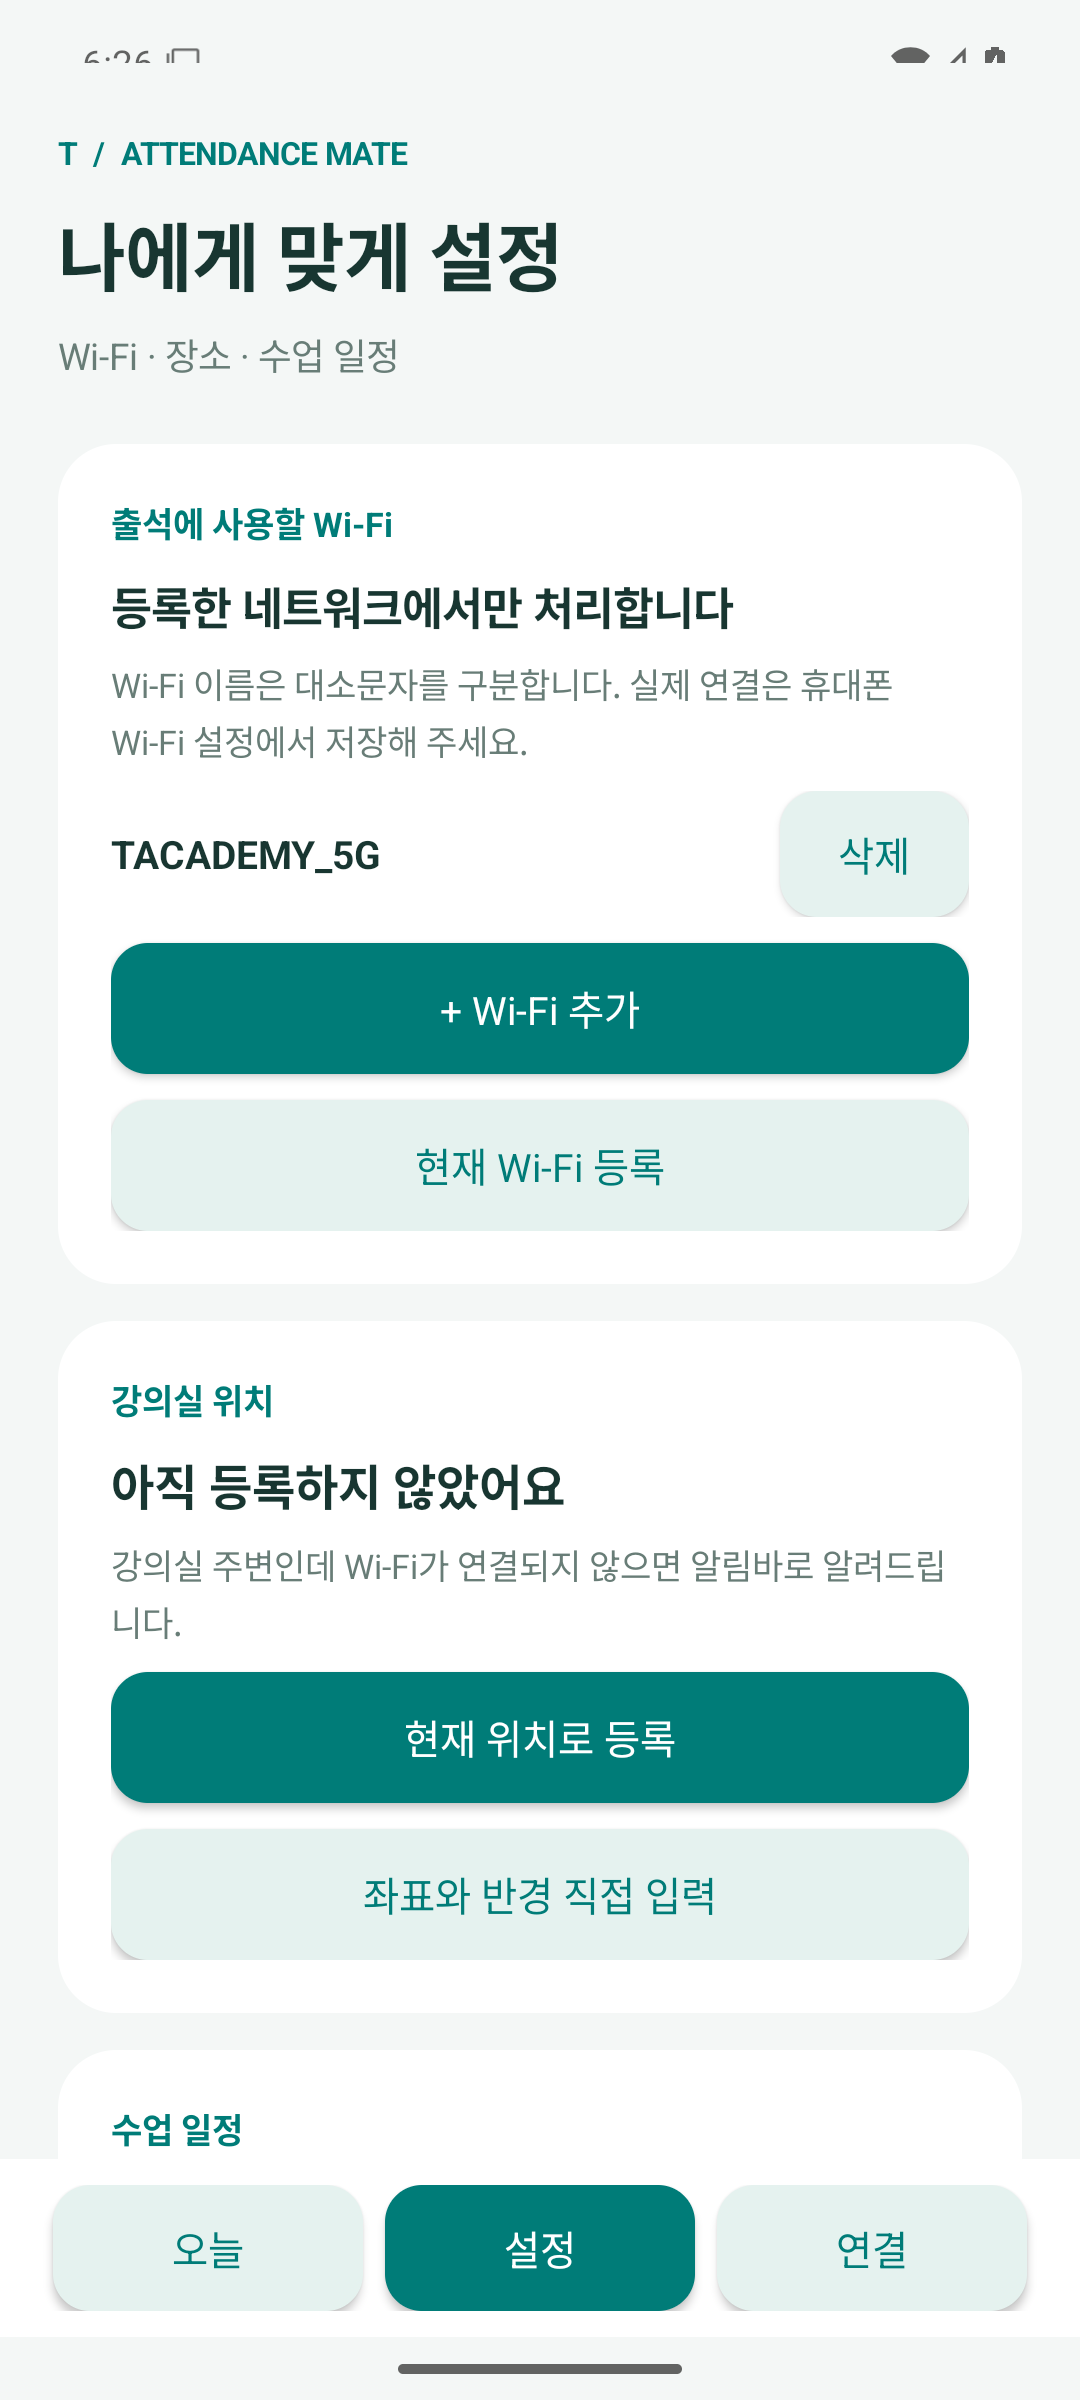
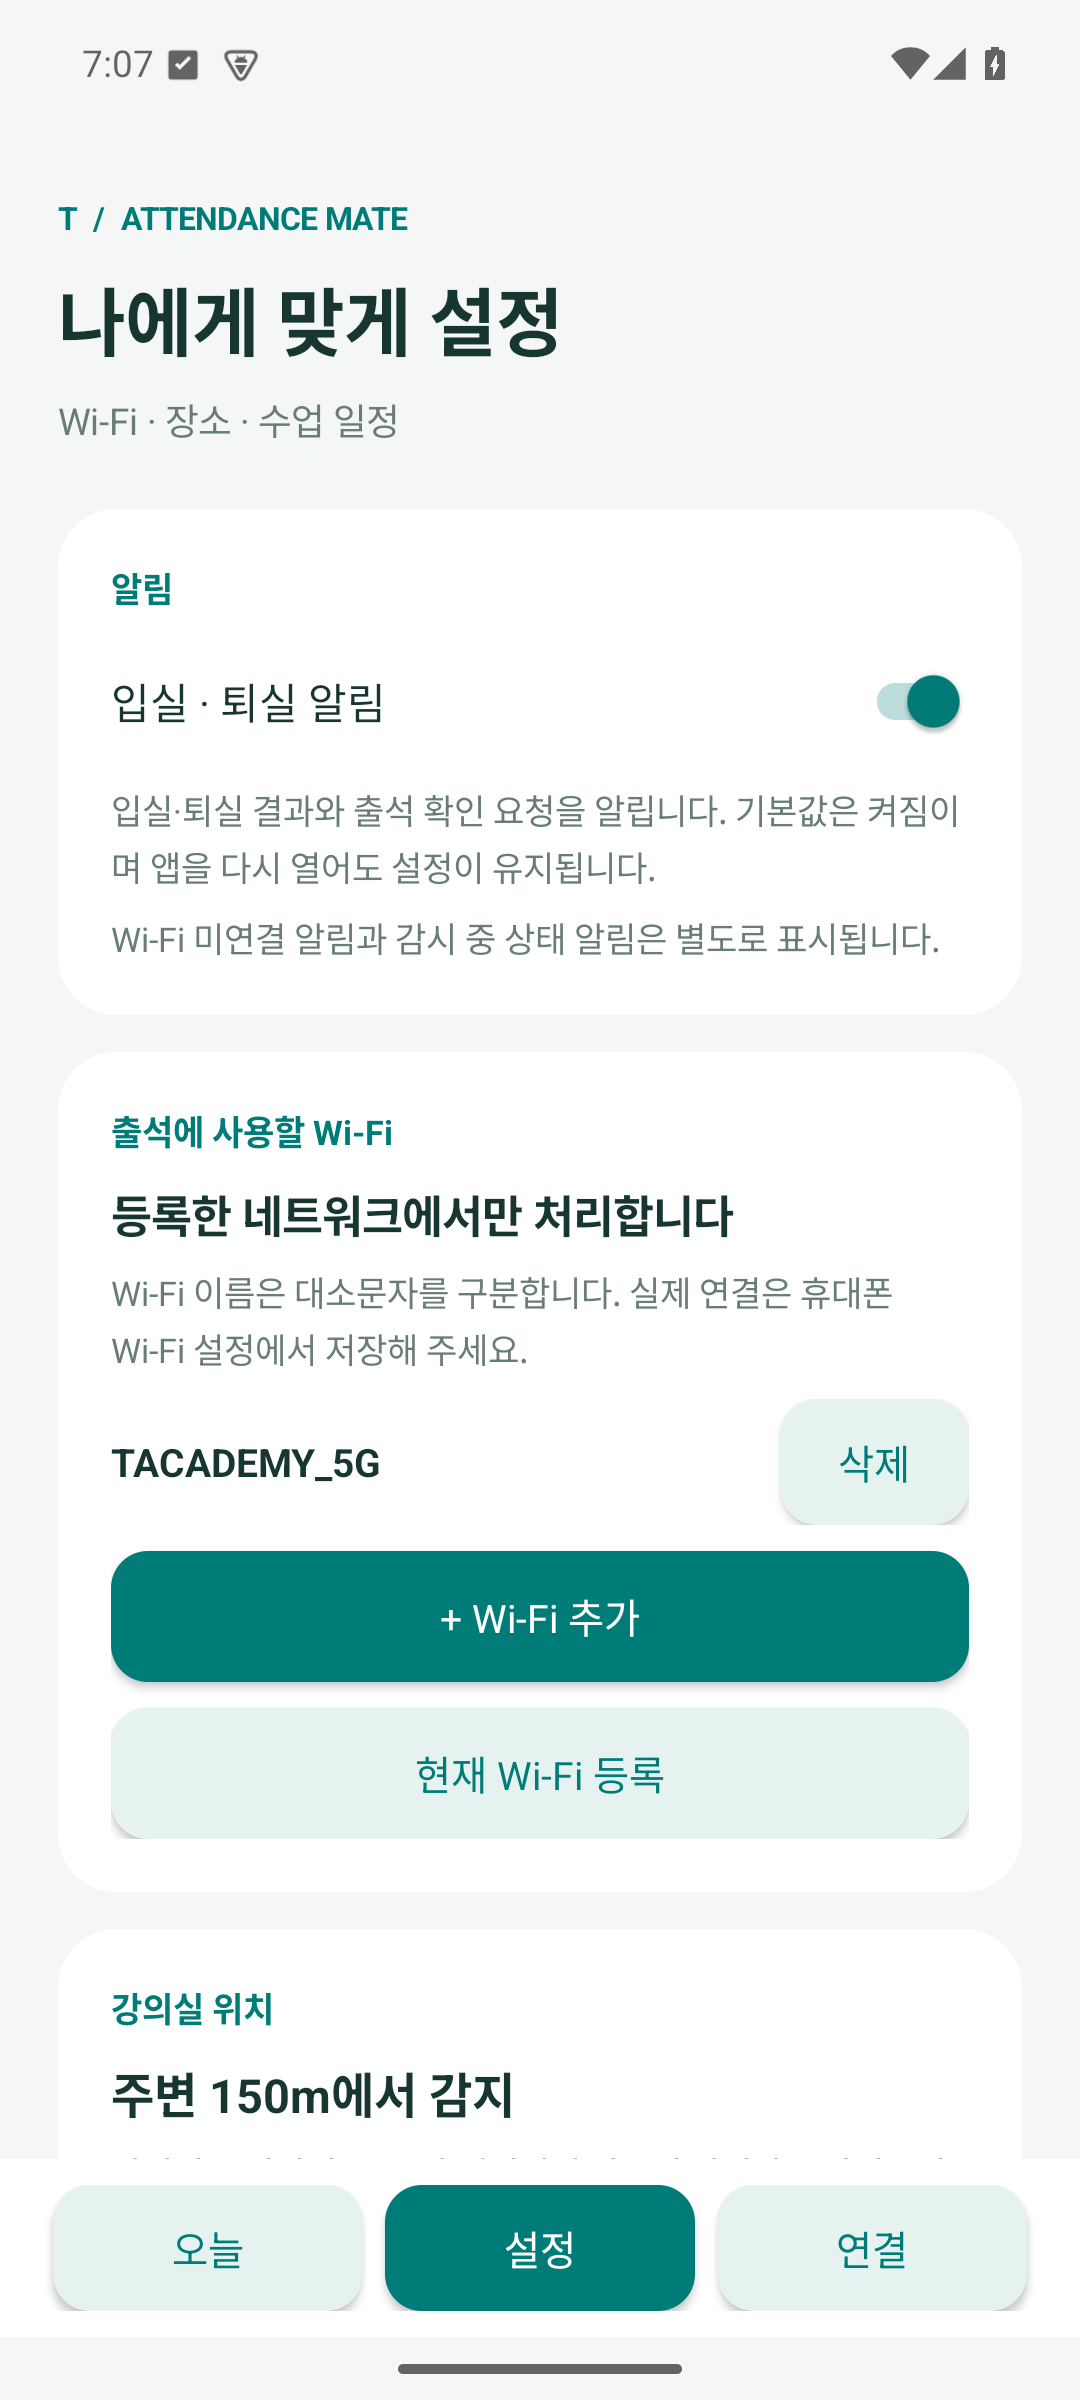
feat: add persistent attendance notification toggle

Changed region(s): [[0.0611, 0.0, 0.9167, 0.9062], [0.2139, 0.0, 0.2444, 0.0312]]

diff --git a/app/src/main/java/net/tacademy/attendance/MainActivity.java b/app/src/main/java/net/tacademy/attendance/MainActivity.java
@@ -194,6 +194,19 @@ public final class MainActivity extends Activity {
     }
 
     private void settings() {
+        LinearLayout notifications = card("알림");
+        Switch resultAlerts = new Switch(this);
+        resultAlerts.setText("입실 · 퇴실 알림"); resultAlerts.setTextSize(16); resultAlerts.setTextColor(INK);
+        resultAlerts.setMinHeight(dp(48));
+        resultAlerts.setChecked(prefs.resultNotificationsEnabled()); notifications.addView(resultAlerts);
+        note(notifications, "입실·퇴실 결과와 출석 확인 요청을 알립니다. 기본값은 켜짐이며 앱을 다시 열어도 설정이 유지됩니다.");
+        note(notifications, "Wi-Fi 미연결 알림과 감시 중 상태 알림은 별도로 표시됩니다.");
+        if (!getSystemService(NotificationManager.class).areNotificationsEnabled())
+            note(notifications, "휴대폰에서 앱 알림이 차단되어 있습니다. 연결 탭에서 알림 권한을 허용해 주세요.");
+        resultAlerts.setOnCheckedChangeListener((v, checked) -> {
+            Notices.setResultNotificationsEnabled(this, checked);
+            prefs.log(checked ? "입실·퇴실 알림 켜짐" : "입실·퇴실 알림 꺼짐");
+        });
         LinearLayout wifi = card("출석에 사용할 Wi-Fi");
         wifi.addView(text("등록한 네트워크에서만 처리합니다", 17, INK, true));
         note(wifi, "Wi-Fi 이름은 대소문자를 구분합니다. 실제 연결은 휴대폰 Wi-Fi 설정에서 저장해 주세요.");
@@ -385,7 +398,7 @@ public final class MainActivity extends Activity {
                     prefs.raw.edit().remove("pending").apply(); prefs.log("사용자가 요청 보류 해제"); render(2);
                 }).show());
         LinearLayout info = card("ABOUT");
-        info.addView(text("출석 메이트 0.1.0 · 초기 테스트 버전", 14, INK, true));
+        info.addView(text("출석 메이트 0.1.1 · 초기 테스트 버전", 14, INK, true));
         note(info, "인증과 위치는 이 기기에 저장합니다. 별도의 분석 서버로 전송하지 않습니다. 실제 계정과 지정 Wi-Fi에서의 동작 검증은 아직 필요합니다.");
     }
     private void permissions() {

diff --git a/app/src/main/java/net/tacademy/attendance/Notices.java b/app/src/main/java/net/tacademy/attendance/Notices.java
@@ -34,7 +34,12 @@ public final class Notices {
             .setContentTitle("17:50 퇴실 확인").setContentText("연결과 사이트 기록을 확인하고 있습니다")
             .setContentIntent(open(context)).setOngoing(true).build();
     }
-    public static void alert(Context context, String title, String detail) {
+    public static synchronized void setResultNotificationsEnabled(Context context, boolean enabled) {
+        new Prefs(context).resultNotificationsEnabled(enabled);
+        if (!enabled) context.getSystemService(NotificationManager.class).cancel(RESULT);
+    }
+    public static synchronized void alert(Context context, String title, String detail) {
+        if (!new Prefs(context).resultNotificationsEnabled()) return;
         channels(context);
         publish(context, RESULT, new Notification.Builder(context, "result").setSmallIcon(R.drawable.ic_notification)
             .setContentTitle(title).setContentText(detail).setStyle(new Notification.BigTextStyle().bigText(detail))

diff --git a/app/src/main/java/net/tacademy/attendance/Prefs.java b/app/src/main/java/net/tacademy/attendance/Prefs.java
@@ -18,6 +18,8 @@ public final class Prefs {
     public boolean enabled() { return raw.getBoolean("enabled", false); }
     public void enabled(boolean value) { raw.edit().putBoolean("enabled", value).apply(); }
     public boolean auto() { return raw.getBoolean("auto", false); }
+    public boolean resultNotificationsEnabled() { return raw.getBoolean("result_notifications", true); }
+    public void resultNotificationsEnabled(boolean value) { raw.edit().putBoolean("result_notifications", value).apply(); }
     public String start() { return raw.getString("start", "08:00"); }
     public String end() { return raw.getString("end", "17:45"); }
     public Set<Integer> days() {

diff --git a/README.md b/README.md
@@ -2,13 +2,13 @@
 
 강의실 Wi-Fi와 위치를 확인하고 출석 사이트의 입실·퇴실을 자동 처리하는 개인용 Android 앱입니다.
 
-**v0.1.0은 초기 테스트 버전입니다. 실제 본인 계정과 강의실 네트워크에서 자동 입퇴실 검증이 필요합니다.**
+**v0.1.1은 초기 테스트 버전입니다. 실제 본인 계정과 강의실 네트워크에서 자동 입퇴실 검증이 필요합니다.**
 
-[APK 다운로드 · v0.1.0](https://github.com/dnjsml0206-blip/classroom-attendance-android/releases/tag/v0.1.0)
+[APK 다운로드 · v0.1.1](https://github.com/dnjsml0206-blip/classroom-attendance-android/releases/tag/v0.1.1)
 
 ## 설치와 시작
 
-1. 릴리스의 `classroom-attendance-0.1.0-debug.apk`를 Android 휴대폰에 내려받아 설치합니다. Android 8.0 이상을 지원합니다.
+1. 릴리스의 `classroom-attendance-0.1.1-debug.apk`를 Android 휴대폰에 내려받아 설치합니다. Android 8.0 이상을 지원합니다.
 2. **설정 → Wi-Fi**에서 기본 등록된 `TACADEMY_5G`를 확인합니다. 다른 Wi-Fi는 이름을 입력해 추가하거나 삭제할 수 있습니다.
 3. 휴대폰 Wi-Fi 설정에도 해당 네트워크를 저장하고 자동 연결을 켭니다. 앱의 목록은 출석에 사용할 네트워크 목록이며 Wi-Fi 비밀번호를 저장하지 않습니다.
 4. **설정 → 강의실 위치**에서 현재 위치를 등록하거나 좌표와 반경을 입력합니다.
@@ -16,6 +16,8 @@
 6. **연결 → 사이트 인증**에서 본인에게 발급된 인증 링크를 앱 안에서 열고 **인증 저장**을 누릅니다. Chrome 인증은 앱과 자동 공유되지 않습니다.
 7. 위치·알림·정확한 알람 권한을 허용하고 **오늘 → 감시 시작**을 누릅니다.
 8. 초기에는 조회 모드입니다. 지정 Wi-Fi에서 본인의 기록을 확인한 뒤 **설정 → 입실·퇴실 자동 처리**를 켭니다.
+
+**설정 → 알림 → 입실·퇴실 알림**에서 결과와 출석 확인 요청 알림을 켜거나 끌 수 있습니다. 자동 출석은 알림 설정과 별도로 동작합니다. Wi-Fi 미연결 및 감시 상태 알림은 계속 표시됩니다.
 
 개인 인증 링크나 쿠키를 GitHub 이슈에 올리지 마세요. 앱은 인증 정보를 Android Keystore 키로 암호화해 기기에 저장합니다.
 
@@ -28,6 +30,7 @@
 - 사용자가 시작하는 위치·Wi-Fi 감시 서비스와 감시 일시 중지
 - 월–일 수업 요일, 입실 시간대, 휴강일 설정
 - 한국 시간 **17:50** 퇴실 예약 및 알람 권한 상태 표시
+- 설정 → 알림 → 입실·퇴실 알림 켜기/끄기; 기본 켜짐, 재실행 후 유지, 끄면 표시 중인 결과 알림도 제거
 - 출석 사이트의 공개 JavaScript에서 확인한 요청을 사용하는 기록 조회와 자동 입퇴실
 - 지정 Wi-Fi 네트워크에 연결한 HTTP 요청 및 사이트의 IP 허용 여부 재확인
 - 날짜·과정·입실/퇴실별 중복 방지, 결과 불명확 시 조회 우선 및 재전송 보류
@@ -65,7 +68,7 @@ GitHub Actions에서도 같은 검사를 수행하고 테스트 APK를 아티팩
 - 일정·와이파이 이름·사이트 응답·인증 URL 범위에 대한 JVM 테스트 12개 통과
 - Android Lint 오류 0개; 고정된 Gradle 버전에 대한 업데이트 안내 1개
 - 실제 출석 계정과 강의실 Wi-Fi 검증은 미실행
-- 설치 및 화면 검증 기록: [v0.1.0 검증](docs/verification-v0.1.0.md)
+- 알림 설정 및 업데이트 설치 검증: [v0.1.1 검증](docs/verification-v0.1.1.md)
 
 ## 문서
 

diff --git a/docs/verification-v0.1.1.md b/docs/verification-v0.1.1.md
@@ -1,0 +1,17 @@
+# v0.1.1 검증 기록
+
+- 실행: `gradlew.bat assembleDebug testDebugUnitTest lintDebug --no-daemon`
+- JVM 테스트 12개 통과, Android Lint 오류 0개 / Gradle 업데이트 안내 1개
+- v0.1.0 APK와 서명 인증서 일치, Android 15 / API 35 에뮬레이터 업데이트 설치 성공
+- 기존 Wi-Fi 및 감시 설정 유지, 새 알림 설정 기본값 켜짐 확인
+- 실제 설정 UI에서 끄기/켜기 및 각 상태의 앱 재실행 후 유지 확인
+- 끄면 기존 결과 알림 제거 확인
+- APK 업데이트 시 발생하는 감시 복구 알림으로 공통 `Notices.alert` 경로 확인: 끄면 표시 안 함, 다시 켜면 표시됨
+- 입실·퇴실 완료와 퇴실 서비스의 결과 안내도 같은 알림 경로를 사용함을 코드에서 확인
+- 알림 설정을 바꿔도 기존 Wi-Fi 및 감시 설정 유지
+- 설정 화면 스크린샷 확인
+
+UI 입력 직후 강제 종료한 첫 시도는 입력 처리가 끝나기 전에 종료되어 다시 수행했다. 화면의 스위치와 저장 값을 확인한 후 재실행한 검증에서 켜짐/꺼짐 유지가 통과했다.
+에뮬레이터 부팅 중 런처 오류가 기록되었으며 출석 앱의 크래시는 관찰하지 않았다.
+
+실제 계정의 입실·퇴실 요청은 실행하지 않았다. 실제 강의실 검증 범위는 [v0.1.0 검증](verification-v0.1.0.md)과 같다.

diff --git a/docs/releases/v0.1.1.md b/docs/releases/v0.1.1.md
@@ -1,0 +1,15 @@
+# 출석 메이트 v0.1.1 · 알림 설정
+
+설정 화면 맨 위에 **알림 → 입실·퇴실 알림** 스위치를 추가했습니다.
+
+- 기본값은 켜짐이며 기존 설치를 업데이트해도 기존 알림 동작을 유지합니다.
+- 끄면 입실·퇴실 결과 및 출석 확인 요청 알림을 보내지 않고, 표시 중인 결과 알림도 지웁니다.
+- 앱을 종료하거나 다시 실행해도 선택이 유지됩니다.
+- 알림을 꺼도 자동 출석은 동작합니다. Wi-Fi 미연결과 감시 상태 알림은 별도로 표시됩니다.
+
+설치 파일: **classroom-attendance-0.1.1-debug.apk** (Android 8.0 이상).
+기존 앱 위에 업데이트 설치할 수 있습니다. 사이트 인증과 출석 설정은 유지됩니다.
+
+실제 강의실 Wi-Fi에서 자동 출석은 추가 검증이 필요한 초기 테스트 버전입니다.
+
+JVM 테스트 12개와 Android Lint 검사 통과. 에뮬레이터에서 업데이트 설치, 알림 켜기/끄기, 재실행 후 유지 및 알림 제거·재개를 확인했습니다.
